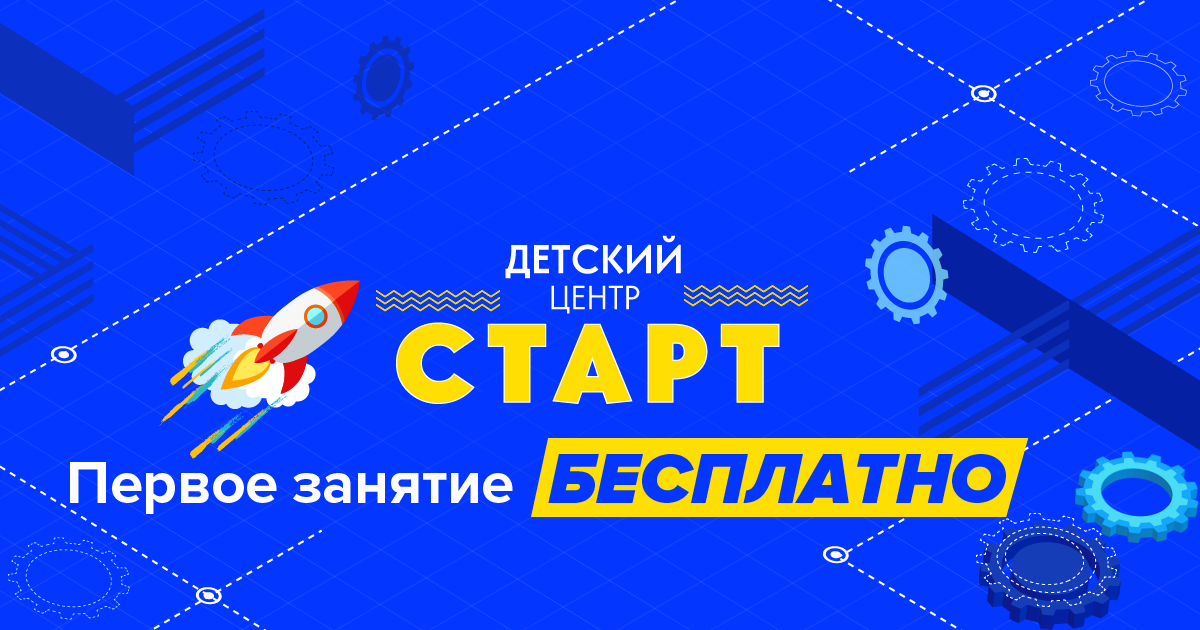
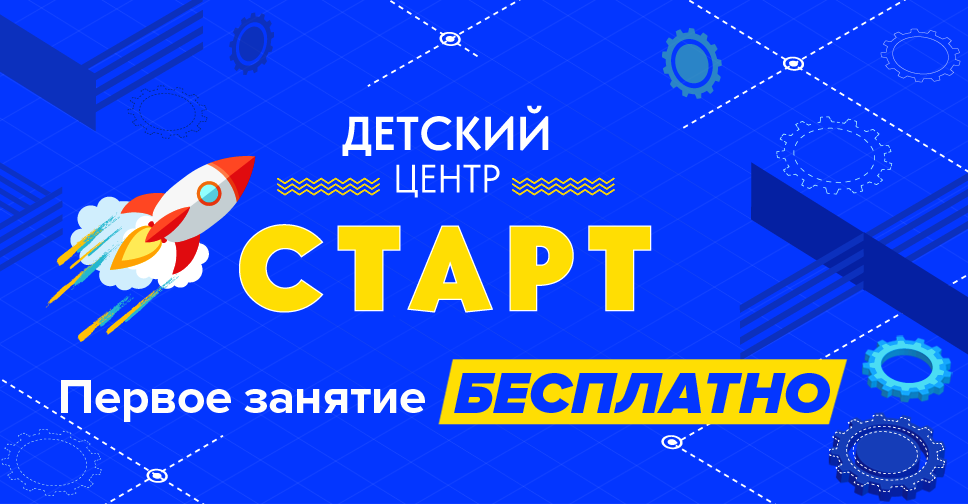
add email

diff --git a/source/index.html b/source/index.html
@@ -14,15 +14,15 @@
     document.createElement("picture");
   </script>
   <script src="https://cdn.rawgit.com/scottjehl/picturefill/3.0.2/dist/picturefill.min.js" async></script>
-  <meta property="og:site_name" content="abakusstart" />
+  <meta property="og:site_name" content="abakusstart.ru" />
   <meta property="og:url" content="http://abakusstart.ru" />
   <meta property="og:title" content=" Детский досуговый центр &laquo;СТАРТ&raquo; в Красноярске. Учим, играем, считаем." />
   <meta property="og:description" content="Детский досуговый центр &laquo;СТАРТ&raquo; в Красноярске приглашает детей на занятия по ментальной арифметике, робототехнике, скорочтению, творчеству. Репетиторы." />
   <meta property="og:type" content="website" />
   <meta property="og:image" content="https://abakusstart.ru/img/start_center_abakusstart.png" />
   <meta property="og:image:type" content="image/png" />
-  <meta property="og:image:width" content="1200" />
-  <meta property="og:image:height" content="630" />
+  <meta property="og:image:width" content="968" />
+  <meta property="og:image:height" content="504" />
   <link rel="canonical" href="http://abakusstart.ru/">
 
   <link rel="icon" type="image/png" href="png/favicon-96x96.png" sizes="96x96">
@@ -379,9 +379,18 @@
     <footer class="page-footer">
 
       <div class="page-footer__adress-wrapper">
-        <div class="page-footer__adress--name">Детский центр &laquo;СТАРТ&raquo;</div>
+        <div class="page-footer__adress page-footer__adress--name">Детский центр &laquo;СТАРТ&raquo;</div>
         <div class="page-footer__adress">г. Красноярск</div>
-        <div class="page-footer__adress">ул. Мате Залки, д. 11, оф. 200</div>
+        <div class="page-footer__adress">ул. Мате Залки, д. 11, оф. 200
+          <p class=" page-footer__adress page-footer__adress--email">
+            <a href="mailto:info@abakusstart.ru?subject=Вопрос по занятиям " target="_blank">info@abakusstart
+            <span class="visually-hidden">Почтовый адрес детского досугового центра &laquo;СТАРТ&raquo; в Красноярске</span>
+              <svg class="page-footer__adress-icon-svg" width="20" height="20" fill="#0033ff">
+                <use xlink:href="#sp-icon-mail"></use>
+              </svg>
+           </a>
+          </p>
+        </div>
       </div>
 
       <div class="page-footer__social social">
@@ -426,7 +435,49 @@
   </div>
     <a href="#home" title="Вернуться наверх" class="button-up button-up--hiden " ><span
     class="visually-hidden">Cсылка для перехода в начало страницы</span></a>
-  <script src="js/script.min.js"></script>
+
+    <script type="application/ld+json">
+      {  
+          "@context": "http://schema.org", 
+           "@type": "Organization",
+           "url": "https://abakusstart.ru",
+          "logo": "https://abakusstart.ru/img/logo-abakusstart-desktop.svg",
+          "name" : "Детский центр «СТАРТ» в Красноярске.",
+          "alternateName": "Детский досуговый центр «СТАРТ» в Красноярске.",
+          "description": "Ментальная арифметика, скорочтение, робототехника. Детский центр &laquo;СТАРТ&raquo; в Красноярске.",
+          "email": "info@abakusstart.ru",
+          "legalName": "ООО «Берег»",
+          "image": "https://abakusstart.ru/img/start_center_abakusstart.png",
+          "address": {
+          
+            "@type": "PostalAddress",
+            
+            "addressCountry": "RU",
+            
+            "addressLocality": "Красноярск",
+            
+            "addressRegion": "Красноярский край",
+            
+            "postalCode": "660118",
+            
+            "streetAddress": "Мате Залки, 11"
+            
+            },
+            
+            "telephone": "+7-908-010-4854",
+            
+            "sameAs" : ["https://instagram.com/start.centr?igshid=2c5mk9f2v986"],
+      
+            "contactPoint" : [
+              {  "@type" : "ContactPoint",
+                "telephone" : "+7-908-010-4854",
+                "contactType" : "customer service"
+              } ]
+      
+      }
+      </script>  
+
+  <script src="js/script.min.js"></script>  
 </body>
 
 </html>

diff --git a/source/sass/blocks/page-footer.scss b/source/sass/blocks/page-footer.scss
@@ -12,7 +12,7 @@
 }
 
 .page-footer__adress-wrapper {
-  margin: 20px 0 30px;
+  margin: 5px 0 30px;
 }
 
 // .page-footer__adress-wrapper {
@@ -30,7 +30,59 @@
     font-weight: 700;
     text-transform: none;
   }
+
+  &--email {
+    position: relative;
+    padding: 0;
+    margin: 0;
+
+    font-size: 14px;
+    line-height: 26px;
+    font-weight: 400;
+    text-transform: uppercase;
+  }
+
+  &--email a {
+    color: $main-text-color;
+  }
+
+  &--email a:focus,
+  &--email a:hover {
+      color: $main-blue;
+  }
+
+  &--email a:active {
+      color: #f6921e;
+  }
+
+  // &--email a:focus .page-footer__adress-icon-svg,
+  // &--email a:hover .page-footer__adress-icon-svg {
+  //     color: #ff00ff;
+  // }
+
+  // &--email a:active .page-footer__adress-icon-svg {
+  //     color: #ff0000;
+  // }
+
 }
+
+.page-footer__adress-icon-svg {
+  position: absolute;
+  top: 4px;
+  left: 72px;
+
+  cursor: pointer;
+}
+
+.page-footer__adress--email a:focus .page-footer__adress-icon-svg,
+.page-footer__adress--email a:hover .page-footer__adress-icon-svg {
+  fill: $main-blue;
+}
+
+.page-footer__adress--email a:active .page-footer__adress-icon-svg {
+  fill: #f6921e ; 
+}
+
 
 
 @media (min-width: $tablet-width) {
@@ -38,7 +90,7 @@
     display: flex;
     flex-direction: row;
     align-items: center;
-    height: 120px;
+    height: 140px;
   }
 
   .page-footer__adress-wrapper {
@@ -47,7 +99,7 @@
 
   .page-footer__adress {
     font-size: 14px;
-    line-height: 26px;
+    line-height: 24px;
     font-weight: 700;
 
     &--name {
@@ -55,15 +107,30 @@
 
       text-transform: uppercase;
     }
+
+    &--email {
+      font-weight: 400;
+    }    
   }
+
+  .page-footer__adress-icon-svg {
+    top: 6px;
+    left: 6px;
+  }
+
 }
 
 @media (min-width: $desktop-width) {
   .page-footer__adress-wrapper {
-    margin: 0 0 0 101px;
+    margin: 0 0 0 91px;
     padding: 0;
   }
   .page-footer__adress {
     font-size: 16px;
+
+    &--email {
+      font-size: 14px;
+    } 
+
   }
 }

diff --git a/source/info.html b/source/info.html
@@ -21,8 +21,8 @@
   <meta property="og:type" content="website">
   <meta property="og:image" content="https://abakusstart.ru/img/start_center_abakusstart.png" />
   <meta property="og:image:type" content="image/png" />
-  <meta property="og:image:width" content="1200">
-  <meta property="og:image:height" content="630">
+  <meta property="og:image:width" content="968">
+  <meta property="og:image:height" content="504">
   <link rel="canonical" href="http://abakusstart.ru/">
 
   <meta name = "robots" content = "noindex,follow">

diff --git a/source/sass/blocks/copyright.scss b/source/sass/blocks/copyright.scss
@@ -43,21 +43,15 @@
   text-transform: none;
   color: rgba( #000000, 0.6);
 
-  &:focus {
-    color: $main-blue;
-
-    background-color: transparent;
-  }
-
-  &:hover {
-    // color: $main-blue;
+  &:hover,
+  &:focus {  
     color: #F6921E;
 
     background-color: transparent;
   }
 
   &:active {
-    color: rgba(0, 0, 0, 0.3);
+    color: rgba(0, 0, 0, 0.8);
     background-color: transparent;
   }
 }

diff --git a/source/sass/blocks/post-social.scss b/source/sass/blocks/post-social.scss
@@ -98,7 +98,8 @@
 
     &--pin a:focus,
     &--pin a:hover {
-        background-color: #ad081b;
+        background-color: #cc041b;
+        // background-color: #ad081b;
     }
 }
 
